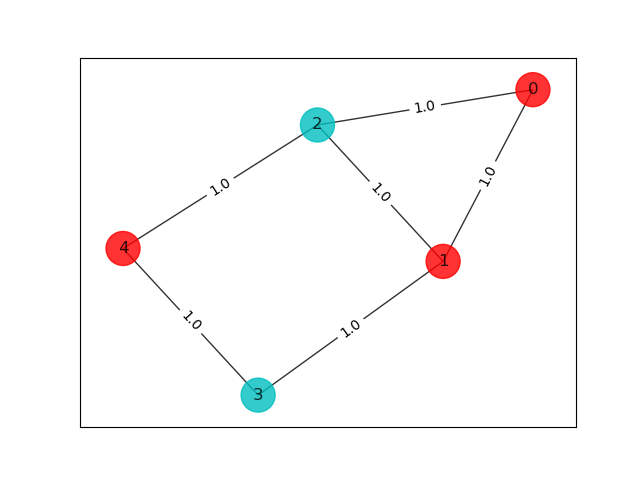
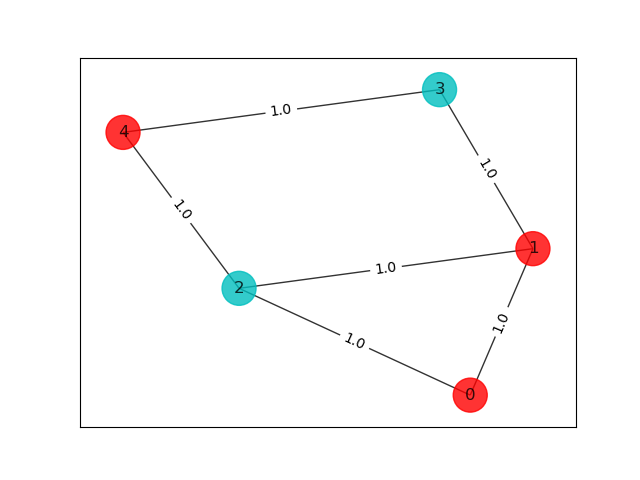
MaxCut ejecutar local y en ordenador cuántico

diff --git a/static/js/script.js b/static/js/script.js
@@ -1,16 +1,40 @@
-var executeForm = document.getElementById("execute-MaxCutLocal");
 var resultDiv = document.getElementById("cajaResultado");
-//var imgGrafico = document.createElement("img");
-//img.src = "../img/graph.png";
+var executeFormMaxCutLocal = document.getElementById("execute-MaxCutLocal");
+var executeFormMaxCutReal = document.getElementById("execute-MaxCutReal");
 
-executeForm.addEventListener("submit", function(event) {
+
+executeFormMaxCutLocal.addEventListener("submit", function(event) {
     event.preventDefault();
+    resultDiv.innerHTML = "";
     var xhr = new XMLHttpRequest();
-    xhr.open('POST', executeForm.action);
+    xhr.open('POST', executeFormMaxCutLocal.action);
     xhr.onload = function() {
+
         resultDiv.appendChild(document.createTextNode(xhr.responseText));
-        //resultDiv.appendChild(imgGrafico);
+
+        const imgGrafico = document.createElement("img");
+        imgGrafico.src = "../static/img/graph.png";
+        resultDiv.appendChild(imgGrafico);
+
     };
-    xhr.send(new FormData(executeForm));
-    
+    xhr.send(new FormData(executeFormMaxCutLocal));
+
+});
+
+executeFormMaxCutReal.addEventListener("submit", function(event) {
+    event.preventDefault();
+    resultDiv.innerHTML = "";
+    var xhr = new XMLHttpRequest();
+    xhr.open('POST', executeFormMaxCutReal.action);
+    xhr.onload = function() {
+
+        resultDiv.appendChild(document.createTextNode(xhr.responseText));
+
+        const imgGrafico = document.createElement("img");
+        imgGrafico.src = "../static/img/graph.png";
+        resultDiv.appendChild(imgGrafico);
+
+    };
+    xhr.send(new FormData(executeFormMaxCutReal));
+
 });

diff --git a/templates/index.html b/templates/index.html
@@ -17,6 +17,9 @@
     <form id="execute-MaxCutLocal" method="POST" action="{{ url_for('execute_MaxCutLocal') }}">
         <button id="execute-btn" type="submit">Ejecutar ejemplo en simulador</button>
     </form>
+    <form id="execute-MaxCutReal" method="POST" action="{{ url_for('execute_MaxCutReal') }}">
+        <button id="execute-btn-MaxCutReal" type="submit">Ejecutar ejemplo en ordenador real</button>
+    </form>
             </td>
         </tr>
     </table>

diff --git a/static/css/style.css b/static/css/style.css
@@ -15,9 +15,15 @@
     border-right: 10px double;
 }
 
-img{
+#imagenProblema img{
     max-width: 10em;
     max-height: 10em;
+}
+
+#result img {
+    width: 50%;
+    height: auto;
+    margin: 0 auto;
 }
 
 td{
@@ -44,3 +50,5 @@ legend {
     padding: 5px;
 
 }
+
+

diff --git a/maxCutReal.py b/maxCutReal.py
@@ -66,3 +66,36 @@ qubitOp, offset = qp.to_ising()
 exact = MinimumEigenOptimizer(NumPyMinimumEigensolver())
 result = exact.solve(qp)
 print(result.prettyprint())
+
+algorithm_globals.random_seed = 123
+seed = 10598
+
+# construct SamplingVQE
+optimizer = SPSA(maxiter=300)
+ry = TwoLocal(qubitOp.num_qubits, "ry", "cz", reps=5, entanglement="linear")
+vqe = SamplingVQE(sampler=Sampler(), ansatz=ry, optimizer=optimizer)
+
+# run SamplingVQE
+result = vqe.compute_minimum_eigenvalue(qubitOp)
+
+# print results
+x = max_cut.sample_most_likely(result.eigenstate)
+print("energy:", result.eigenvalue.real)
+print("time:", result.optimizer_time)
+print("max-cut objective:", result.eigenvalue.real + offset)
+print("solution:", x)
+print("solution objective:", qp.objective.evaluate(x))
+
+# plot results
+colors = ["r" if x[i] == 0 else "c" for i in range(n)]
+draw_graph(G, colors, pos)
+
+# create minimum eigen optimizer based on SamplingVQE
+vqe_optimizer = MinimumEigenOptimizer(vqe)
+
+# solve quadratic program
+result = vqe_optimizer.solve(qp)
+print(result.prettyprint())
+
+colors = ["r" if result.x[i] == 0 else "c" for i in range(n)]
+draw_graph(G, colors, pos)

diff --git a/maxCutLocal.py b/maxCutLocal.py
@@ -1,17 +1,13 @@
 # useful additional packages
 import matplotlib.pyplot as plt
-import numpy as np
 import networkx as nx
-
-from qiskit_aer import Aer
-from qiskit.tools.visualization import plot_histogram
-from qiskit.circuit.library import TwoLocal
-from qiskit_optimization.applications import Maxcut, Tsp
-from qiskit.algorithms.minimum_eigensolvers import SamplingVQE, NumPyMinimumEigensolver
-from qiskit.algorithms.optimizers import SPSA
-from qiskit.utils import algorithm_globals
-from qiskit.primitives import Sampler
-from qiskit_optimization.algorithms import MinimumEigenOptimizer
+import numpy as np
+from qiskit.algorithms.minimum_eigensolvers import \
+    NumPyMinimumEigensolver
+from qiskit_optimization.algorithms import \
+    MinimumEigenOptimizer
+from qiskit_optimization.applications import \
+    Maxcut
 
 # Generating a graph of 4 nodes
 

diff --git a/app.py b/app.py
@@ -11,7 +11,11 @@ def index():
 @app.route('/executeMaxCutLocal', methods=['POST'])
 def execute_MaxCutLocal():
     output = subprocess.check_output(['python', 'maxCutLocal.py'])
-    # pdb.set_trace() # Para debug
+    return output
+
+@app.route('/executeMaxCutReal', methods=['POST'])
+def execute_MaxCutReal():
+    output = subprocess.check_output(['python', 'maxCutReal.py'])
     return output
 
 if __name__ == '__main__':
